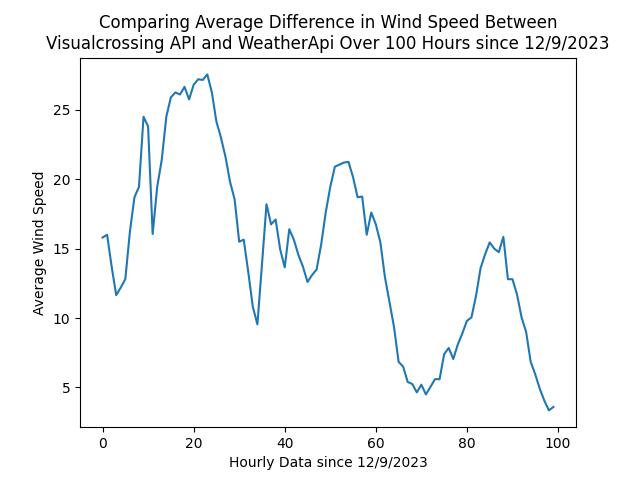
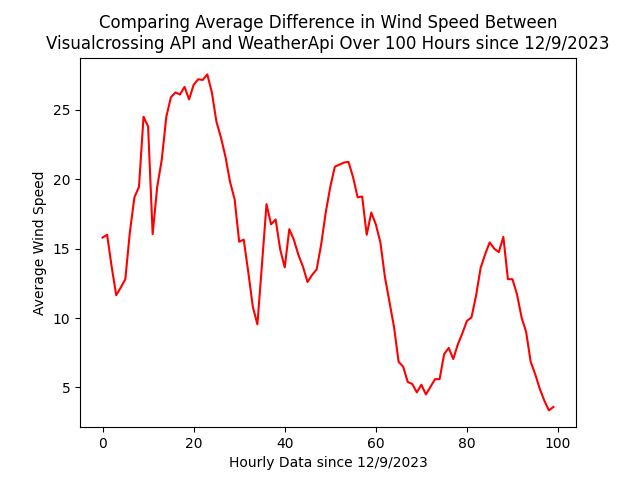
code

diff --git a/difference_vis.py b/difference_vis.py
@@ -46,8 +46,8 @@ time, vs, wa = read_data(file_path)
 sns.set(style="whitegrid")
 
 plt.figure(figsize=(10, 6))
-sns.scatterplot(x=time, y=vs, label='Line 1')
-sns.scatterplot(x=time, y=wa, label='Line 2')
+sns.scatterplot(x=time, y=vs, label='Line 1', color='green')
+sns.scatterplot(x=time, y=wa, label='Line 2', color='orange')
 
 plt.xlabel('Hourly Data since 12/9/2023')
 plt.ylabel('Difference in Perceived and Actual Temperatures')

diff --git a/average_vis.py b/average_vis.py
@@ -12,7 +12,7 @@ file_name = 'average.txt'
 file_path = os.path.join(current_directory, file_name)
 time, val = read_data(file_path)
 
-plt.plot(time, val)
+plt.plot(time, val, color='red')
 
 plt.xlabel('Hourly Data since 12/9/2023')
 plt.ylabel('Average Wind Speed')
